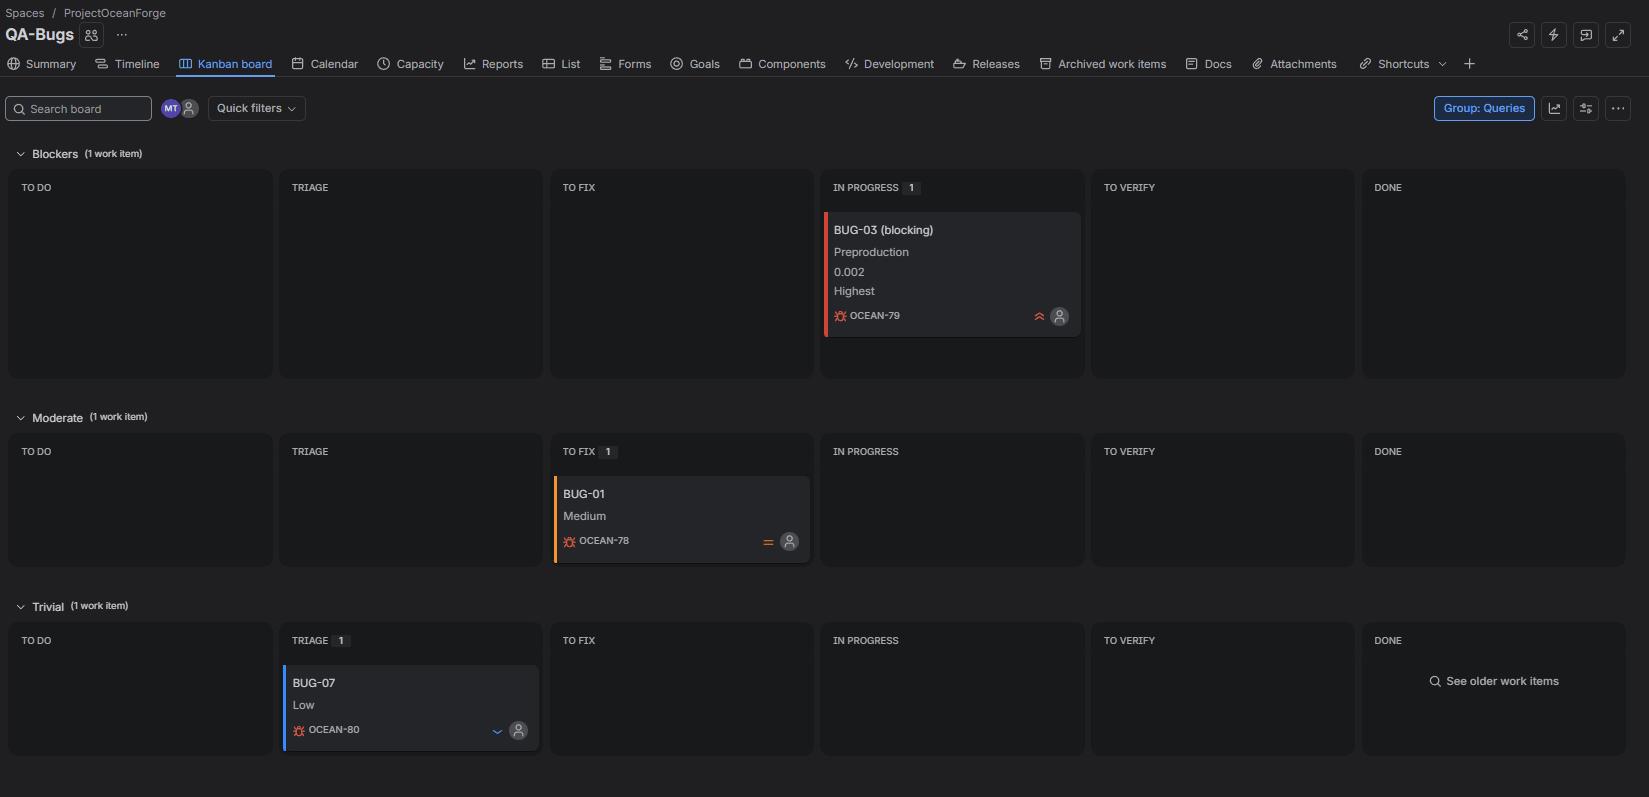
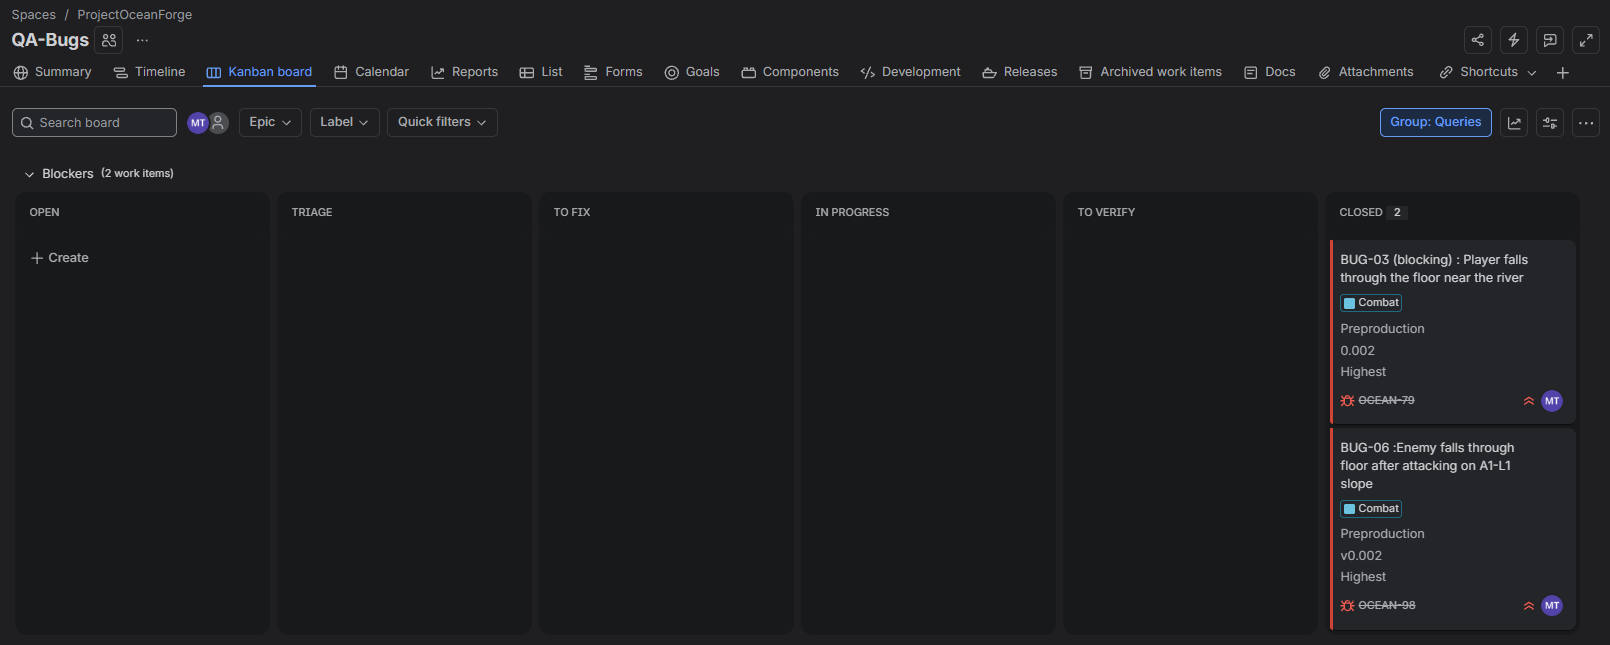
Jira : nouvelle capture du board QA, date d'octobre 2026 sur la vignette
Claude-Session: https://claude.ai/code/session_01QtLoCRjyjnrE9a4PUV17cc

diff --git a/js/contenu.js b/js/contenu.js
@@ -413,7 +413,7 @@ const PROJECTS_FR = {
         ] })
   ],
   perso: [
-    P({ une:true, survol:{ items:["Producer","Action-RPG AA · 15 personnes","Mise en situation","Jira · JQL"] }, cat:"Gestion de production", id:"projet-jira-et-agile-un-studio-en-mise-en-situation-octobre-2026", title:"Projet Jira et Agile : un studio en mise en situation", large:true, nocover:true,
+    P({ une:true, date:"Octobre 2026", survol:{ items:["Producer","Action-RPG AA · 15 personnes","Mise en situation","Jira · JQL"] }, cat:"Gestion de production", id:"projet-jira-et-agile-un-studio-en-mise-en-situation-octobre-2026", title:"Projet Jira et Agile : un studio en mise en situation", large:true, nocover:true,
         desc:"Une mise en situation menée seul : la production d'un action-RPG AA fictif structurée dans Jira, des boards au registre des risques.",
         carte:"Un studio fictif organisé dans Jira en Scrum : sprints, bugs, risques et automatisations.",
         img:"images/jira-vignette.jpg",
@@ -462,7 +462,7 @@ const PROJECTS_FR = {
             ],[ IMG("images/jira-auto-repro.png","La règle du taux de reproduction : calcul, contrôle des valeurs, puis une branche par option de likelihood") ]),
             LIGNE([
               T("Sur le board QA, les **swimlanes** sont des requêtes JQL qui rangent les bugs par sévérité, les bloquants en haut, et la carte affiche la priorité. Chaque colonne a **une limite de travail en cours** : quand une colonne déborde, l'équipe finit des bugs avant d'en ouvrir d'autres.")
-            ],[ CAROUSEL([["images/jira-board-qa.png","Le board QA-Bugs : une ligne par sévérité"],["images/jira-colonnes-qa.png","Les colonnes et leurs limites de travail en cours"]]) ]),
+            ],[ CAROUSEL([["images/jira-board-qa.png","Le board QA-Bugs : les bugs bloquants regroupés en haut, du triage à la fermeture"],["images/jira-colonnes-qa.png","Les colonnes et leurs limites de travail en cours"]]) ]),
             LIGNE([
               T("Le workflow pose une règle : **un bug ne se ferme jamais sans résolution**. Verified ferme un bug corrigé avec la résolution Done ; Rejected, depuis le tri, le ferme en Won't Do, Duplicate ou Cannot Reproduce. Reopen renvoie en correction un bug dont le correctif ne tient pas, ce qui permet de compter les réouvertures. Une requête de contrôle vérifie qu'aucun bug fermé n'est privé de résolution.")
             ],[ SCHEMA("bugflow","Le parcours d'un bug, ses retours en arrière et ses résolutions") ])
@@ -856,7 +856,7 @@ const PROJECTS_EN = {
         ] })
   ],
   perso: [
-    P({ une:true, survol:{ items:["Producer","AA action-RPG · 15 people","Simulation","Jira · JQL"] }, cat:"Production management", title:"Jira and Agile Project: A Studio Simulation", large:true, nocover:true,
+    P({ une:true, date:"October 2026", survol:{ items:["Producer","AA action-RPG · 15 people","Simulation","Jira · JQL"] }, cat:"Production management", title:"Jira and Agile Project: A Studio Simulation", large:true, nocover:true,
         desc:"A simulation run on my own: the production of a fictional AA action-RPG structured in Jira, from the boards to the risk register.",
         carte:"A fictional studio run in Jira with Scrum: sprints, bugs, risks and automations.",
         img:"images/jira-vignette.jpg",
@@ -905,7 +905,7 @@ const PROJECTS_EN = {
             ],[ IMG("images/jira-auto-repro.png","The repro rate rule: calculation, value check, then one branch per likelihood option") ]),
             LIGNE([
               T("On the QA board, **swimlanes** are JQL queries that sort bugs by severity, blockers at the top, and the card shows the priority. Each column has **a work-in-progress limit**: when a column overflows, the team finishes bugs before opening new ones.")
-            ],[ CAROUSEL([["images/jira-board-qa.png","The QA-Bugs board: one lane per severity"],["images/jira-colonnes-qa.png","The columns and their work-in-progress limits"]]) ]),
+            ],[ CAROUSEL([["images/jira-board-qa.png","The QA-Bugs board: blocking bugs grouped at the top, from triage to closure"],["images/jira-colonnes-qa.png","The columns and their work-in-progress limits"]]) ]),
             LIGNE([
               T("The workflow sets one rule: **a bug is never closed without a resolution**. Verified closes a fixed bug with the Done resolution; Rejected, from triage, closes it as Won't Do, Duplicate or Cannot Reproduce. Reopen sends back a bug whose fix does not hold, which lets you count reopened bugs. A control query checks that no closed bug is missing a resolution.")
             ],[ SCHEMA("bugflow","The path of a bug, its ways back and its resolutions") ])

diff --git a/js/app.js b/js/app.js
@@ -62,7 +62,7 @@ function homeFeat(){
     <h2 id="feat-h">${q("Par où commencer","Where to start")}</h2>
     <div class="feat-row">${items.map(([k,p]) => {
       const m = p.title.match(/^(.+?)\s+–\s+(\S.*\d{4})$/);
-      const kick = k==="pro" ? q("Projet professionnel","Professional project")+(m?` · ${m[2]}`:"") : q("Projet personnel","Personal project")+(p.cat?` · ${p.cat}`:"");
+      const kick = k==="pro" ? q("Projet professionnel","Professional project")+(m?` · ${m[2]}`:"") : q("Projet personnel","Personal project")+(p.date||p.cat?` · ${p.date||p.cat}`:"");
       return `<a class="feat" data-go="#/${k}/${esc(p.id)}" role="link" tabindex="0">
         <span class="feat-img">${img(p.img,"",p.title[0])}</span>
         <span class="feat-txt"><small>${esc(kick)}</small><h3>${esc(m?m[1]:p.title)}</h3><span class="feat-d">${esc(p.carte||p.desc)}</span><span class="feat-go">${q("Voir le projet","See the project")}<span aria-hidden="true"> →</span></span></span>
@@ -93,7 +93,7 @@ function listing(sec){
   const items = PROJECTS[sec.key].filter(p => !p.wip);   // projets wip:true masqués jusqu'à leur mise à jour
   const cards = items.map(p => `<article class="card${p.wip?" is-wip":""}">
     <div class="thumb${p.img?" has-img":""}"${p.wip?"":` data-go="#/${sec.key}/${esc(p.id)}" role="link" tabindex="0" aria-label="${esc(p.title)}"`}>${img(p.img,p.title,p.title[0])}${p.wip?'<span class="wip-blur" aria-hidden="true"></span>':""}${p.survol?survol(p.survol):""}<span class="status${p.wip?" wip":""}"><i aria-hidden="true"></i>${p.wip?t("stWip"):t("stDone")}</span></div>
-    <h3>${cardTitle(p.title,p.cat)}</h3>${cardMeta(p)}<p class="cdesc">${esc(p.carte||p.desc)}</p>
+    <h3>${cardTitle(p.title,p.cat&&p.date?`${p.cat} · ${p.date}`:p.cat)}</h3>${cardMeta(p)}<p class="cdesc">${esc(p.carte||p.desc)}</p>
     ${p.wip?'<span class="btn is-disabled" aria-disabled="true">'+t("details")+'</span>':`<a class="btn" data-go="#/${sec.key}/${esc(p.id)}" role="link" tabindex="0">${t("details")}</a>`}</article>`).join("");
   return `<div class="list-head"><h1>${sec.label}</h1><p class="lead">${sec.intro}</p></div>
   <div class="stage"><h2 class="sr">${q("Liste des projets","Project list")}</h2>${items.length ? `<div class="grid${items.length<=4?" few":""}${sec.key==="perso"?" exo":""}" data-n="${items.length}">${cards}</div>` : `<div class="empty">Aucun projet pour le moment.</div>`}</div>`;

diff --git a/index.html b/index.html
@@ -24,7 +24,7 @@
 <meta property="og:locale" content="fr_FR">
 <meta property="og:locale:alternate" content="en_GB">
 <meta name="twitter:card" content="summary_large_image">
-<link rel="stylesheet" href="css/style.css?v=20261030-1530">
+<link rel="stylesheet" href="css/style.css?v=20261030-1600">
 </head>
 
 <body>
@@ -40,7 +40,7 @@
   <h2 id="h-legal" class="sr">Informations légales</h2><div class="legal-row" id="legal"></div>
 </div></footer>
 
-<script src="js/contenu.js?v=20261030-1530"></script>
-<script src="js/app.js?v=20261030-1530"></script>
+<script src="js/contenu.js?v=20261030-1600"></script>
+<script src="js/app.js?v=20261030-1600"></script>
 </body>
 </html>
